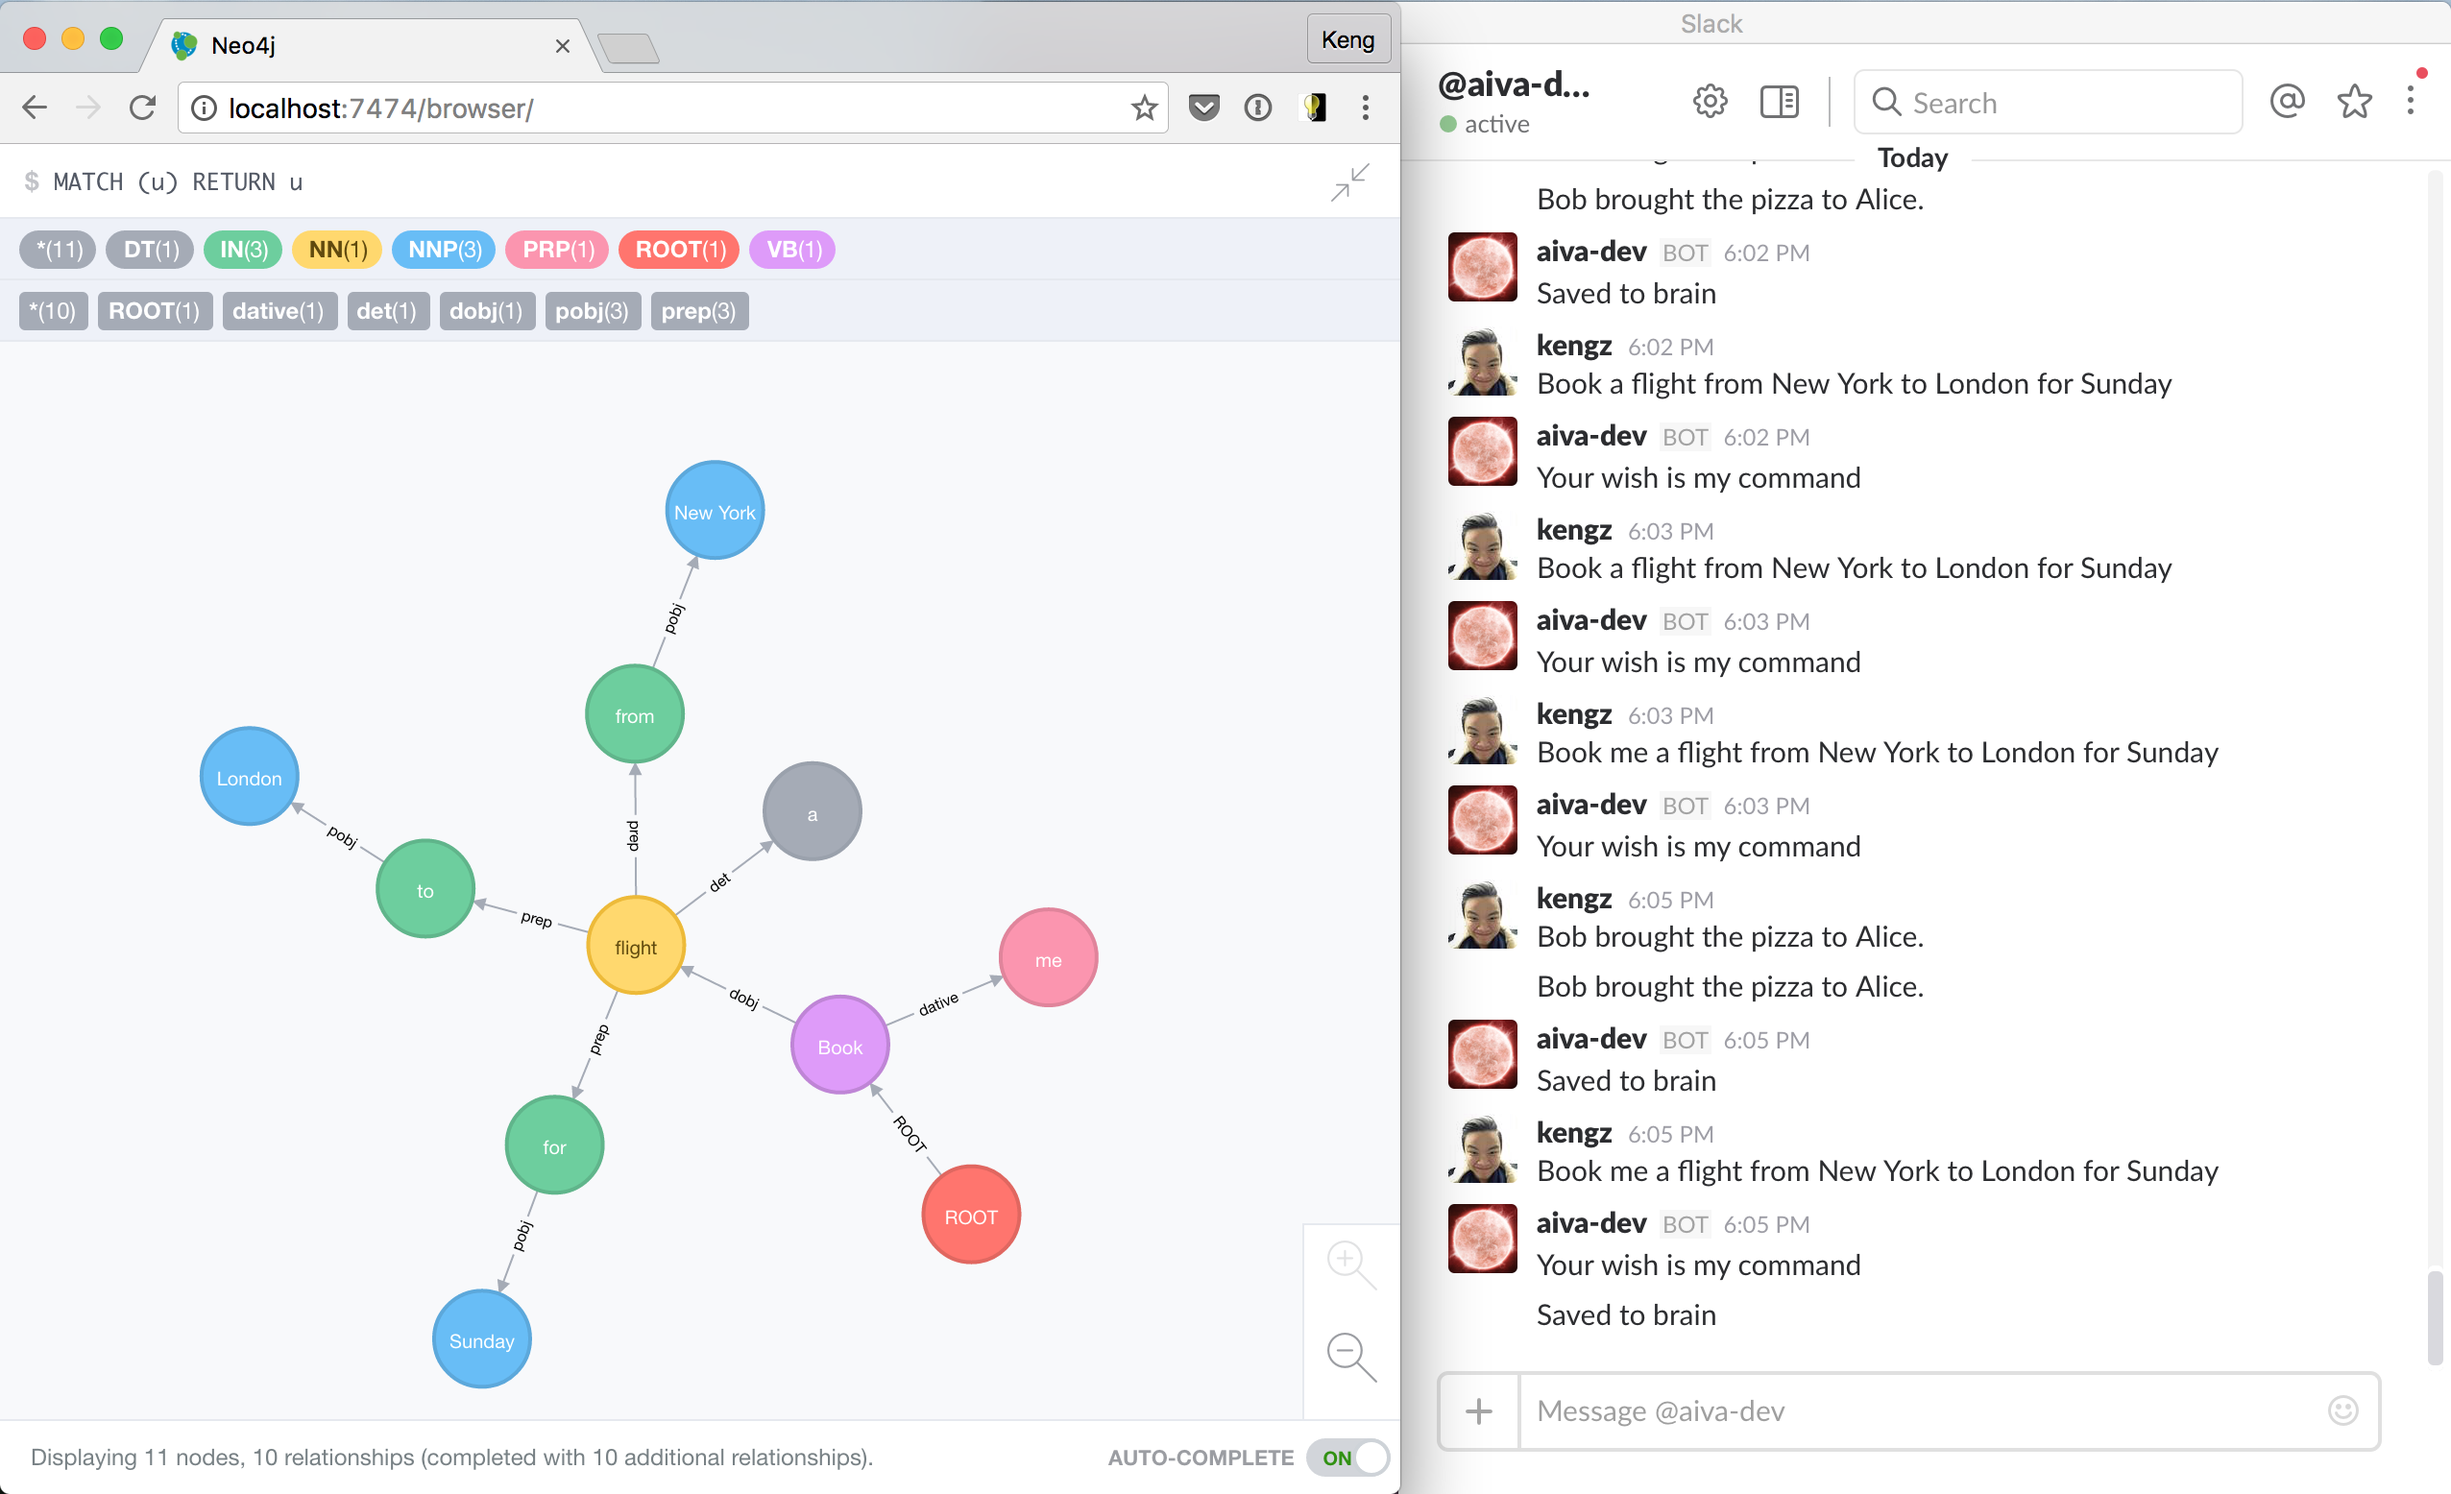
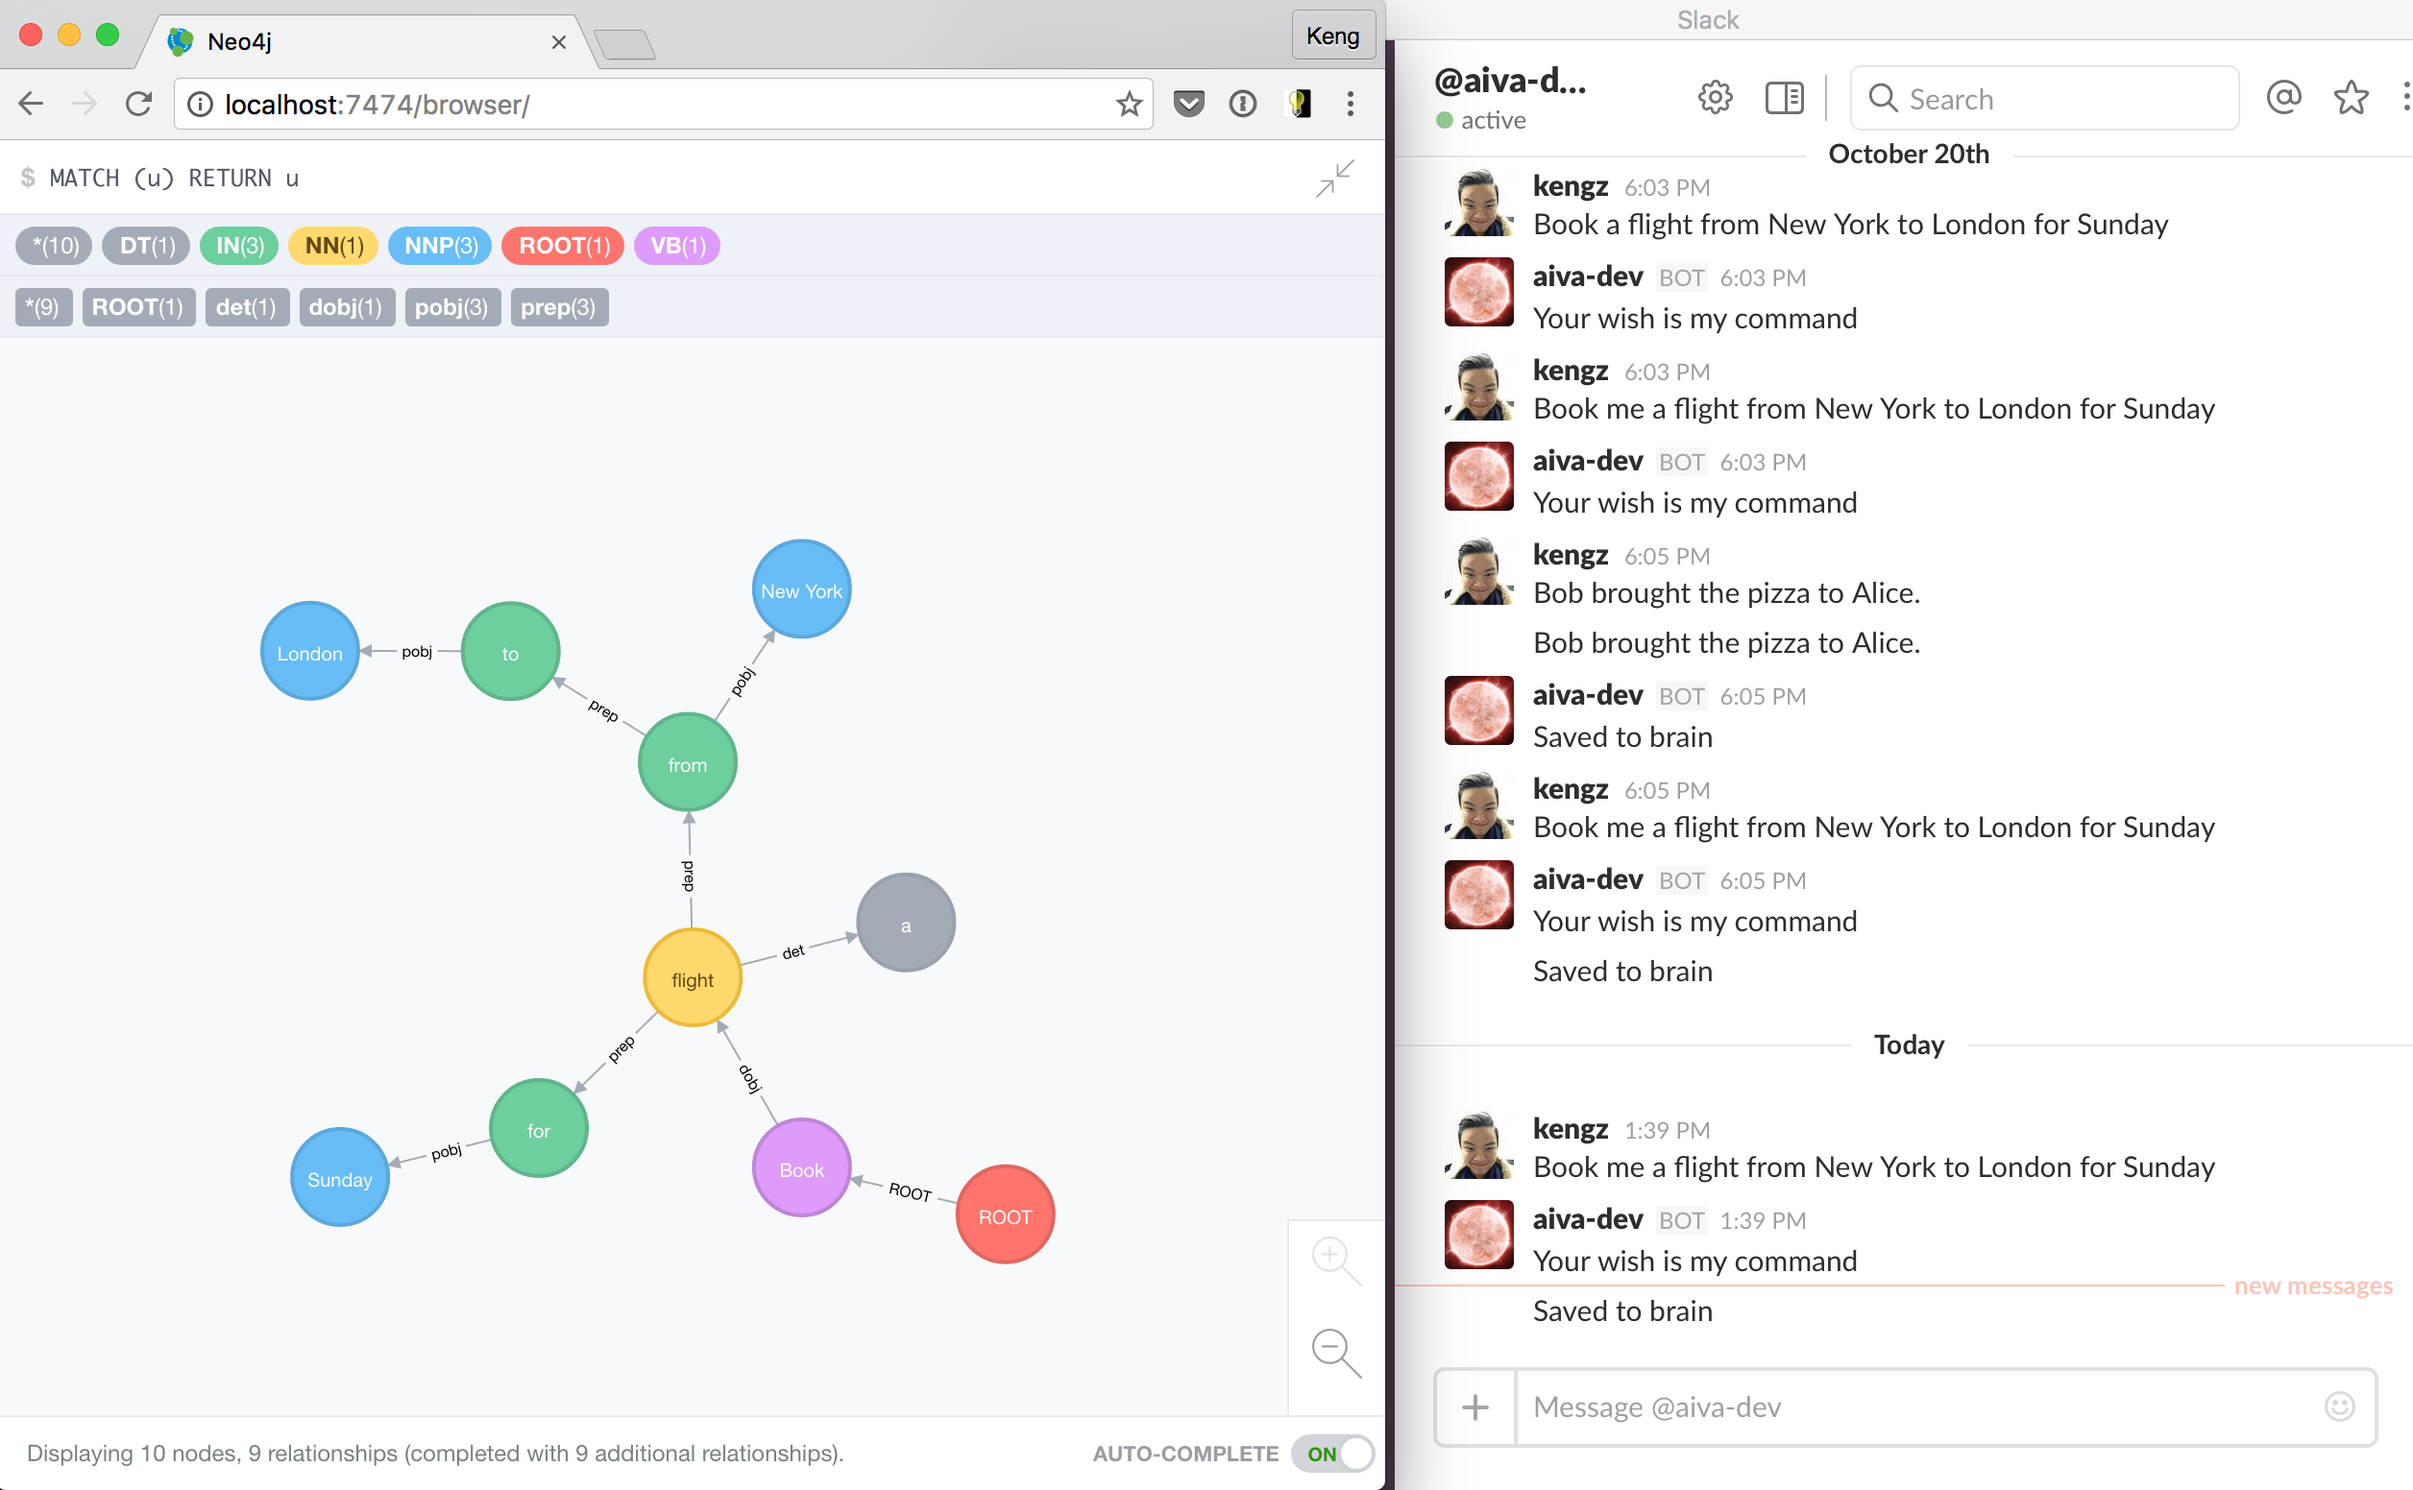
update README, bump ver

diff --git a/README.md b/README.md
@@ -7,7 +7,7 @@ Contextual Graph Knowledge Base, basically a graph brain for my bot, based off [
 ```shell
 # install this npm package
 npm i --save cgkb
-# or run
+# run
 ./node_modules/cgkb/bin/setup
 ```
 
@@ -30,4 +30,10 @@ Then populate your db credentials in `config/db.json`.
 
 *Still a work in progress*. But check out the [CGKB branch of `aiva`](https://github.com/kengz/aiva/tree/cgkb) to see how it's being used in a bot.
 
-<img alt="AIVA on Slack, Telegram" src="./source/images/syntaxnet.png" />
+Log on to the Neo4j interface to see the graph.
+
+<img alt="See the graph in Neo4j" src="./source/images/syntaxnet.png" />
+
+Inspect a node for more parsed NLP info.
+
+<img alt="Inspect a node for more NLP parsing info" src="./source/images/inspect-node.png" />
